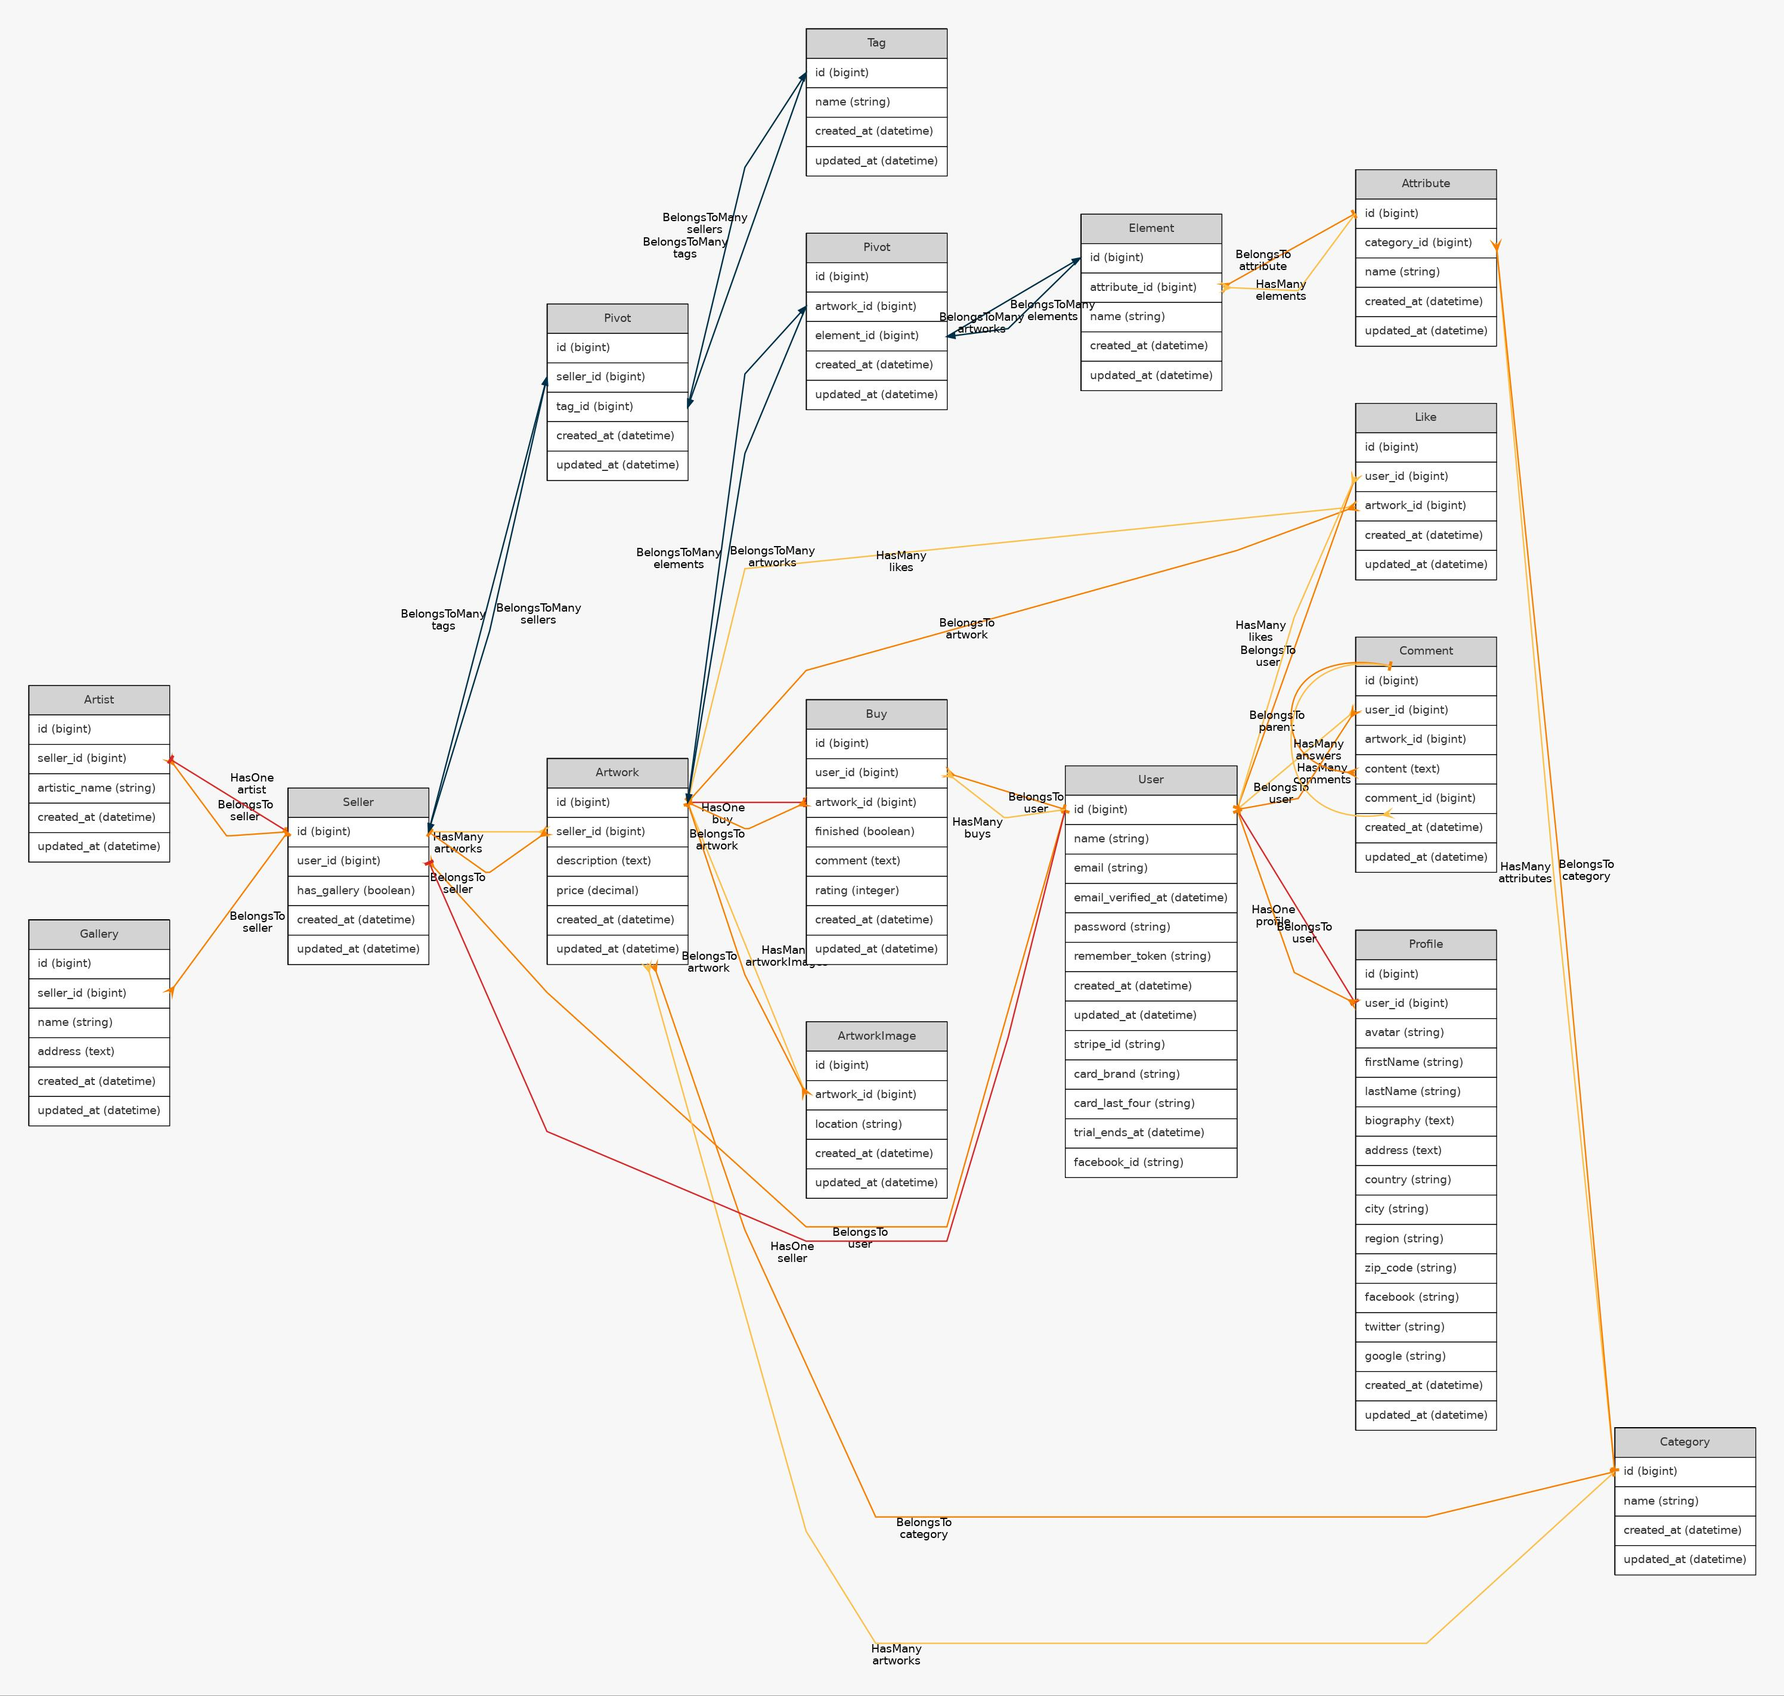
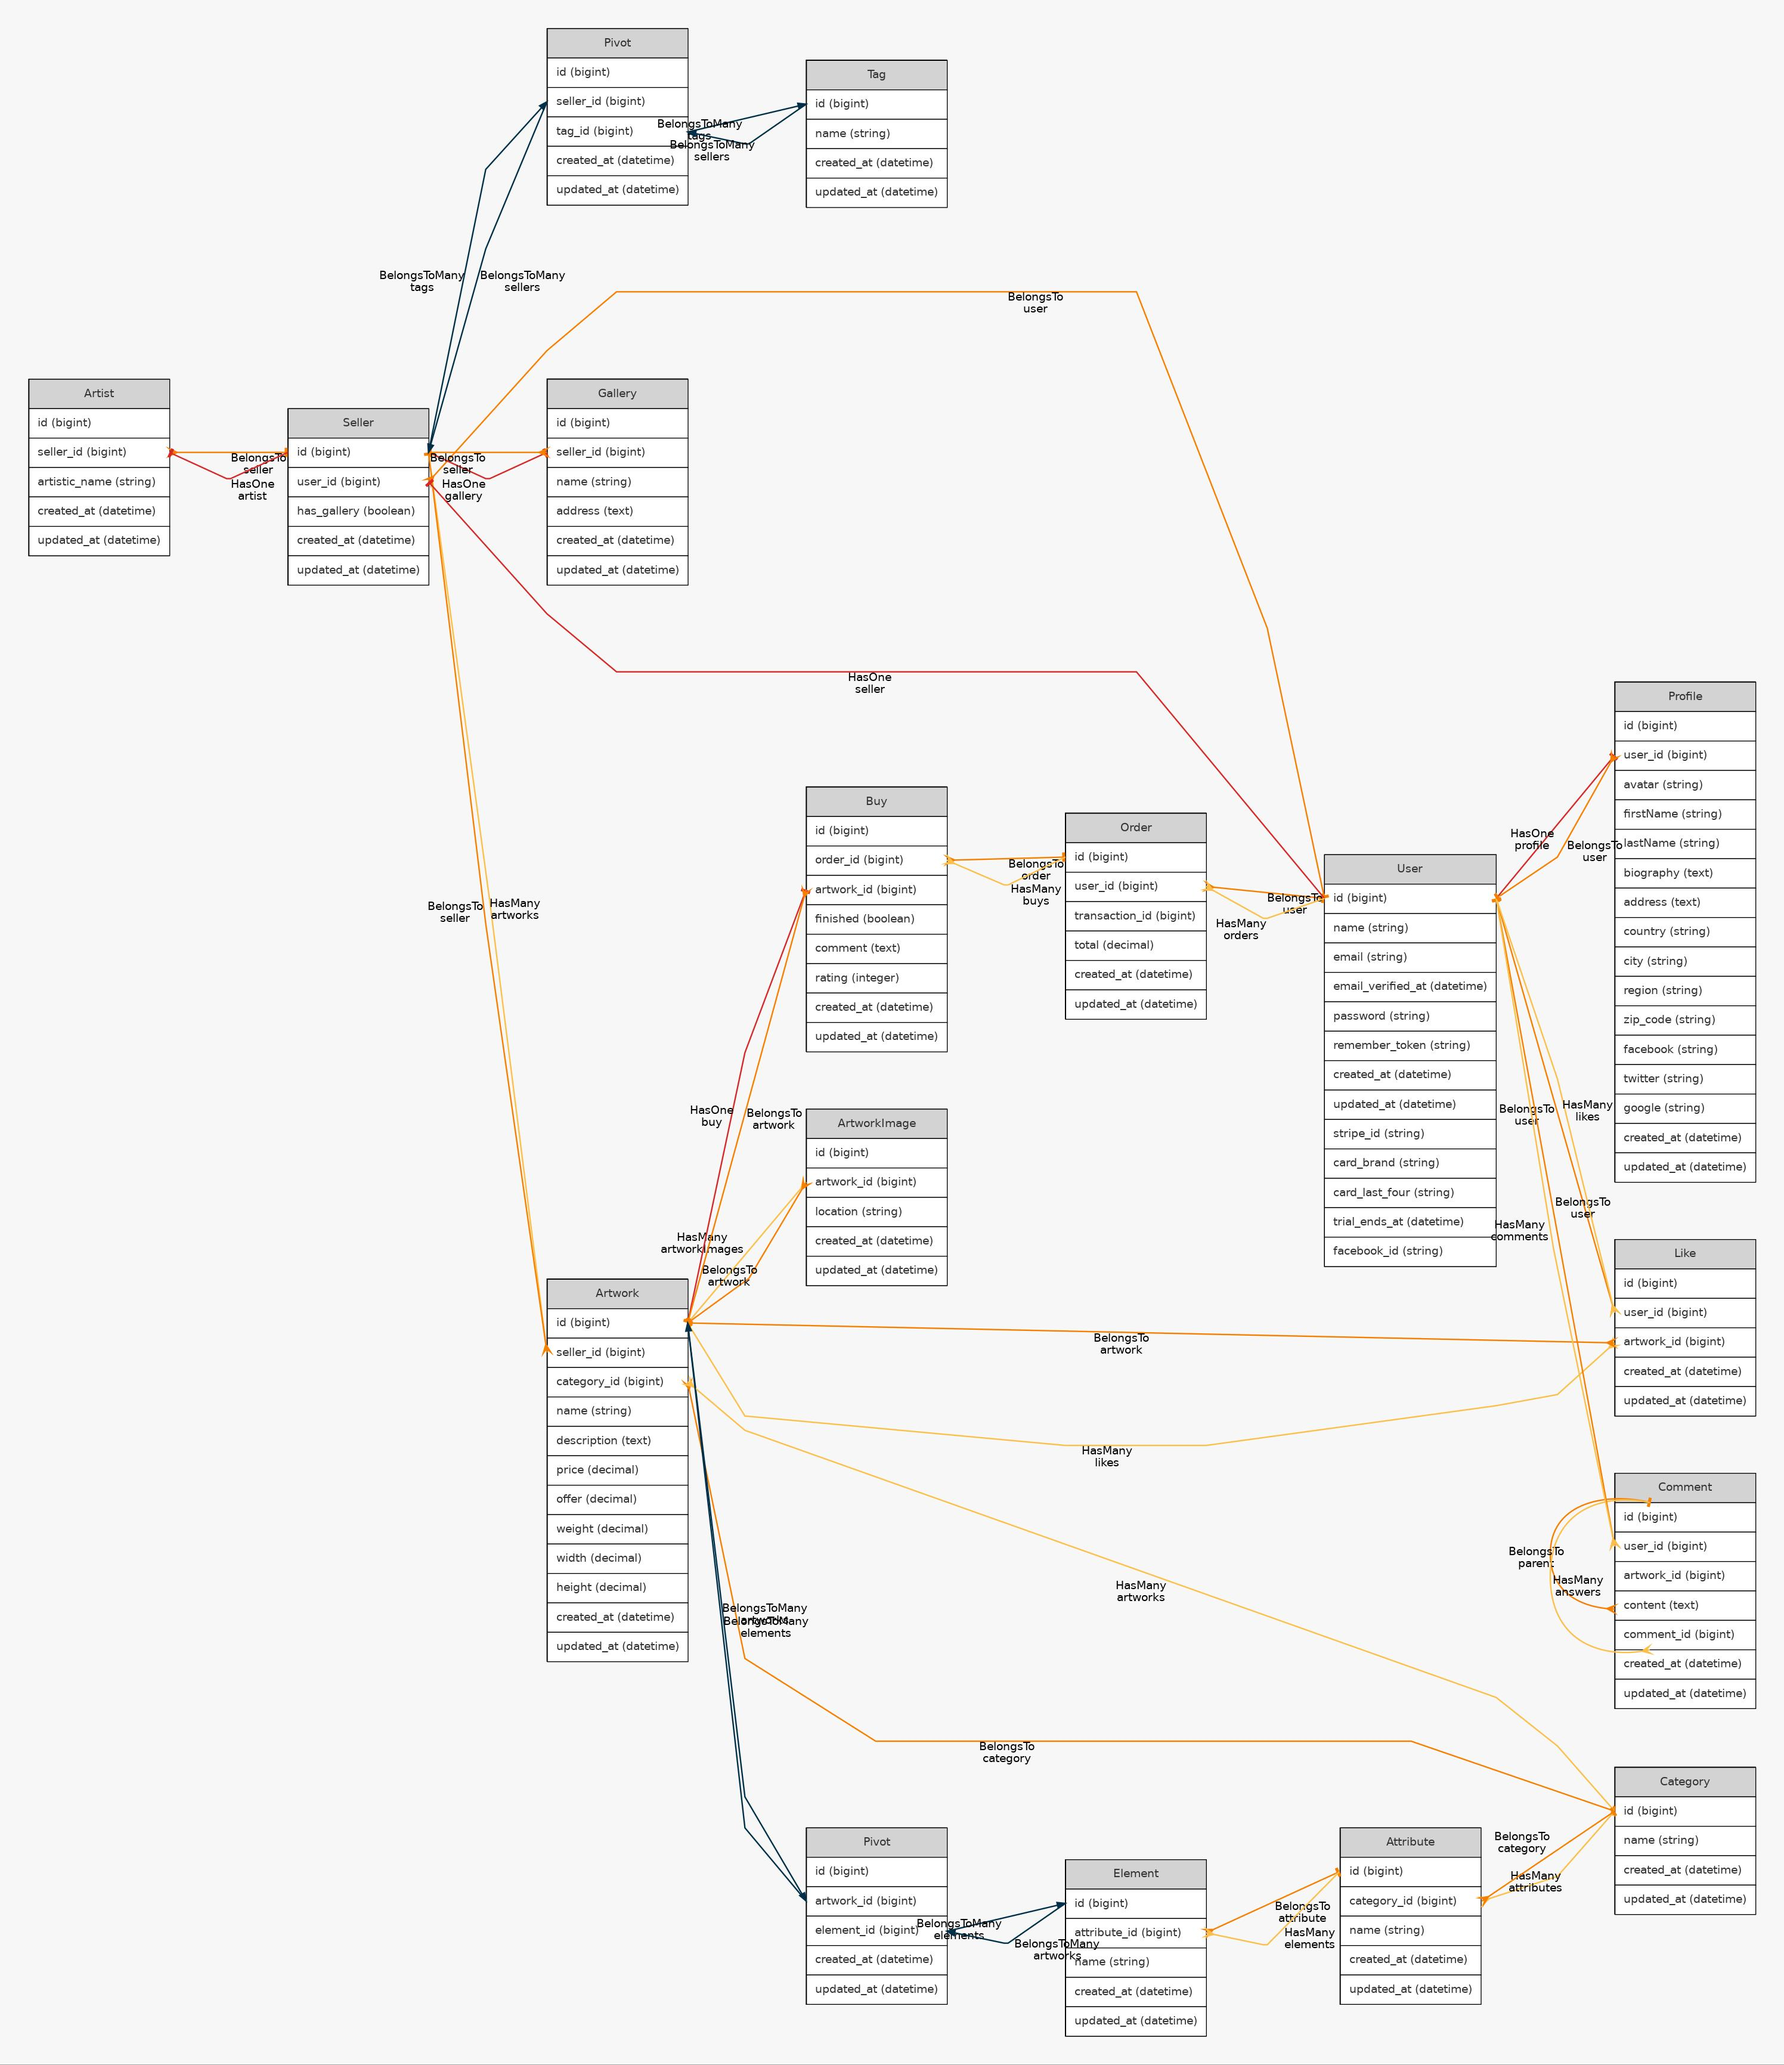
Agregando modelo Order

diff --git a/app/Http/Controllers/OrderController.php b/app/Http/Controllers/OrderController.php
@@ -1,0 +1,85 @@
+<?php
+
+namespace App\Http\Controllers;
+
+use App\Models\Order;
+use Illuminate\Http\Request;
+
+class OrderController extends Controller
+{
+    /**
+     * Display a listing of the resource.
+     *
+     * @return \Illuminate\Http\Response
+     */
+    public function index()
+    {
+        //
+    }
+
+    /**
+     * Show the form for creating a new resource.
+     *
+     * @return \Illuminate\Http\Response
+     */
+    public function create()
+    {
+        //
+    }
+
+    /**
+     * Store a newly created resource in storage.
+     *
+     * @param  \Illuminate\Http\Request  $request
+     * @return \Illuminate\Http\Response
+     */
+    public function store(Request $request)
+    {
+        //
+    }
+
+    /**
+     * Display the specified resource.
+     *
+     * @param  \App\Models\Order  $order
+     * @return \Illuminate\Http\Response
+     */
+    public function show(Order $order)
+    {
+        //
+    }
+
+    /**
+     * Show the form for editing the specified resource.
+     *
+     * @param  \App\Models\Order  $order
+     * @return \Illuminate\Http\Response
+     */
+    public function edit(Order $order)
+    {
+        //
+    }
+
+    /**
+     * Update the specified resource in storage.
+     *
+     * @param  \Illuminate\Http\Request  $request
+     * @param  \App\Models\Order  $order
+     * @return \Illuminate\Http\Response
+     */
+    public function update(Request $request, Order $order)
+    {
+        //
+    }
+
+    /**
+     * Remove the specified resource from storage.
+     *
+     * @param  \App\Models\Order  $order
+     * @return \Illuminate\Http\Response
+     */
+    public function destroy(Order $order)
+    {
+        //
+    }
+}

diff --git a/app/Models/Order.php b/app/Models/Order.php
@@ -1,0 +1,39 @@
+<?php
+
+namespace App\Models;
+
+use Illuminate\Database\Eloquent\Factories\HasFactory;
+use Illuminate\Database\Eloquent\Model;
+
+class Order extends Model
+{
+    use HasFactory;
+
+    protected $fillable = [
+        'user_id',
+        'transaction_id',
+        'total'
+    ];
+
+    /**
+     * Método que obtiene el usuario al que pertenece la orden
+     *
+     * @author  Paúl Rojas <paul.rojase@gmail.com>
+     * @return object Objeto con los registros relacionados al modelo Order
+     */
+    public function user()
+    {
+        return $this->belongsTo(User::class);
+    }
+
+    /**
+     * Método que obtiene as compras de una orden
+     *
+     * @author  Paúl Rojas <paul.rojase@gmail.com>
+     * @return object Objeto con los registros relacionados al modelo Order
+     */
+    public function buys()
+    {
+        return $this->hasMany(Buy::class);
+    }
+}

diff --git a/database/migrations/2021_06_06_010859_create_orders_table.php b/database/migrations/2021_06_06_010859_create_orders_table.php
@@ -1,0 +1,34 @@
+<?php
+
+use Illuminate\Database\Migrations\Migration;
+use Illuminate\Database\Schema\Blueprint;
+use Illuminate\Support\Facades\Schema;
+
+class CreateOrdersTable extends Migration
+{
+    /**
+     * Run the migrations.
+     *
+     * @return void
+     */
+    public function up()
+    {
+        Schema::create('orders', function (Blueprint $table) {
+            $table->id();
+            $table->foreignId('user_id')->constrained()->onDelete('cascade');
+            $table->bigInteger('transaction_id');
+            $table->decimal('total', 10, 2);
+            $table->timestamps();
+        });
+    }
+
+    /**
+     * Reverse the migrations.
+     *
+     * @return void
+     */
+    public function down()
+    {
+        Schema::dropIfExists('orders');
+    }
+}

diff --git a/database/migrations/2021_06_03_142005_create_artworks_table.php b/database/migrations/2021_06_03_142005_create_artworks_table.php
@@ -16,8 +16,14 @@ class CreateArtworksTable extends Migration
         Schema::create('artworks', function (Blueprint $table) {
             $table->id();
             $table->foreignId('seller_id')->constrained()->onDelete('cascade');
+            $table->foreignId('category_id')->constrained()->onDelete('cascade');
+            $table->string('name');
             $table->text('description');
-            $table->decimal('price', 10, 2);
+            $table->decimal('price', 8, 2);
+            $table->decimal('offer', 8, 2)->nullable();
+            $table->decimal('weight', 8, 2)->nullable();
+            $table->decimal('width', 8, 2)->nullable();
+            $table->decimal('height', 8, 2)->nullable();
             $table->timestamps();
         });
     }

diff --git a/app/Models/User.php b/app/Models/User.php
@@ -91,14 +91,13 @@ class User extends Authenticatable implements MustVerifyEmail
     }
 
     /**
-     * Método que obtiene las compras que hizo un usuario
+     * Método que obtiene las ordenes que hizo un usuario
      *
      * @author  Paúl Rojas <paul.rojase@gmail.com>
      * @return object Objeto con los registros relacionados al modelo User
      */
-    public function buys()
+    public function orders()
     {
-        return $this->hasMany(Buy::class);
+        return $this->hasMany(Order::class);
     }
-
 }

diff --git a/app/Models/Buy.php b/app/Models/Buy.php
@@ -18,14 +18,14 @@ class Buy extends Model
     ];
 
     /**
-     * Método que obtiene el usuario comprador al de la obra
+     * Método que obtiene la orden a la que pertenece la compra
      *
      * @author  Paúl Rojas <paul.rojase@gmail.com>
      * @return object Objeto con los registros relacionados al modelo Buy
      */
-    public function user()
+    public function order()
     {
-        return $this->belongsTo(User::class);
+        return $this->belongsTo(Order::class);
     }
 
     /**

diff --git a/database/factories/OrderFactory.php b/database/factories/OrderFactory.php
@@ -1,0 +1,28 @@
+<?php
+
+namespace Database\Factories;
+
+use App\Models\Order;
+use Illuminate\Database\Eloquent\Factories\Factory;
+
+class OrderFactory extends Factory
+{
+    /**
+     * The name of the factory's corresponding model.
+     *
+     * @var string
+     */
+    protected $model = Order::class;
+
+    /**
+     * Define the model's default state.
+     *
+     * @return array
+     */
+    public function definition()
+    {
+        return [
+            //
+        ];
+    }
+}

diff --git a/database/migrations/2021_06_07_231531_create_buys_table.php b/database/migrations/2021_06_07_231531_create_buys_table.php
@@ -15,7 +15,7 @@ class CreateBuysTable extends Migration
     {
         Schema::create('buys', function (Blueprint $table) {
             $table->id();
-            $table->foreignId('user_id')->constrained()->onDelete('cascade');
+            $table->foreignId('order_id')->constrained()->onDelete('cascade');
             $table->foreignId('artwork_id')->constrained()->onDelete('cascade');
             $table->boolean('finished')->default(0);
             $table->text('comment')->nullable();

diff --git a/app/Models/Artwork.php b/app/Models/Artwork.php
@@ -12,7 +12,13 @@ class Artwork extends Model
     protected $fillable = [
         'seller_id',
         'category_id',
-        'name'
+        'name',
+        'description',
+        'price',
+        'offer',
+        'weight',
+        'width',
+        'height'
     ];
 
     /**

diff --git a/app/Models/Seller.php b/app/Models/Seller.php
@@ -33,7 +33,7 @@ class Seller extends Model
      */
     public function gallery()
     {
-        return $this->hasOne(Galery::class);
+        return $this->hasOne(Gallery::class);
     }
 
     /**
